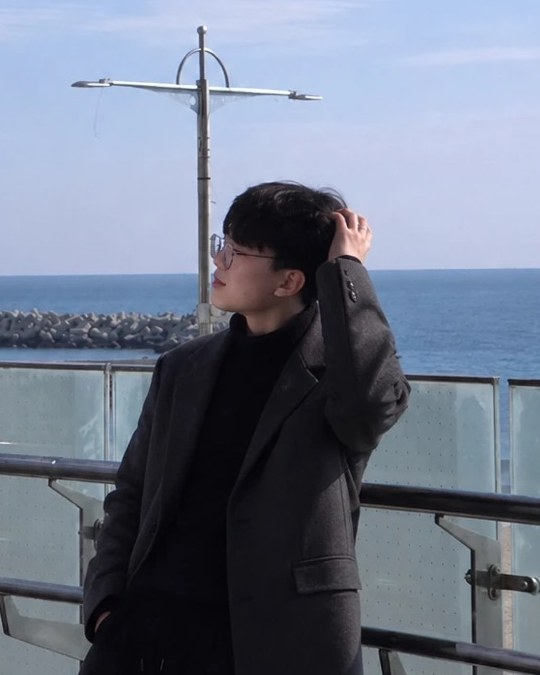
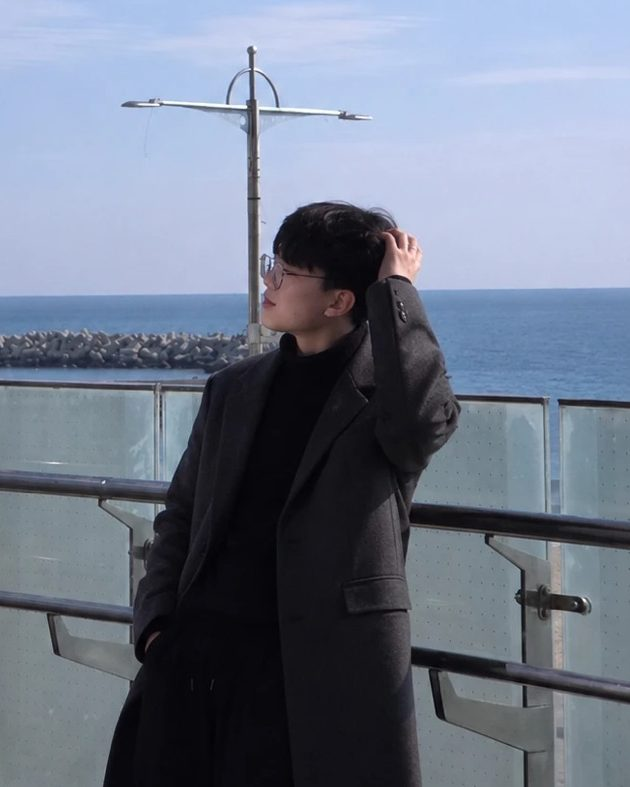
Portfolio: larger portrait on the right of the hero
Portrait re-cropped from the original (630x787) and shown up to 400px
wide beside the intro; tablets keep it on the right at 240px, phones show
it full width above the name.

Claude-Session: https://claude.ai/code/session_01CkiX4KQLTaGBqmBSnma3pg

Changed region(s): [[0.0, 0.0311, 1.0, 1.0], [0.2667, 0.7467, 0.2963, 0.7778], [0.2667, 0.0311, 0.2963, 0.0622]]

diff --git a/index.html b/index.html
@@ -85,7 +85,7 @@ code{font:500 .88em ui-monospace,"SF Mono",Menlo,Consolas,monospace;background:v
 .lang button[aria-pressed="true"]{background:var(--ink);color:var(--bg)}
 
 /* hero */
-.hero{display:grid;grid-template-columns:minmax(0,1fr) 208px;gap:56px;align-items:end;padding-block:clamp(56px,9vw,104px) clamp(48px,7vw,80px)}
+.hero{display:grid;grid-template-columns:minmax(0,1fr) clamp(280px,32vw,400px);gap:clamp(32px,5vw,72px);align-items:center;padding-block:clamp(56px,9vw,104px) clamp(48px,7vw,80px)}
 h1{font-size:clamp(36px,5vw,52px);line-height:1.12;letter-spacing:-.02em;font-weight:700}
 h1 small{display:inline-block;margin-left:12px;font-size:.5em;font-weight:500;color:var(--muted);letter-spacing:0}
 .role{margin-top:10px;font-size:16.5px;color:var(--muted)}
@@ -176,12 +176,14 @@ footer{padding-block:28px 48px;border-top:1px solid var(--rule);font-size:13.5px
 #lb button{position:absolute;top:-16px;right:-8px;width:40px;height:40px;border-radius:50%;border:0;background:#fff;color:#111;font-size:20px;cursor:pointer}
 
 @media (max-width:900px){
-  .hero{grid-template-columns:1fr;gap:28px}
-  .portrait{order:-1;width:128px}
+  .hero{grid-template-columns:minmax(0,1fr) 240px;gap:32px}
   .sec{grid-template-columns:1fr;gap:20px;padding-block:48px}
   .sec__h h2{position:static;font-size:22px}
 }
 @media (max-width:680px){
+  .hero{grid-template-columns:1fr;gap:28px}
+  .portrait{order:-1}
+  .portrait img{aspect-ratio:4/3;object-position:50% 30%}
   .top .wrap{flex-wrap:wrap;gap:0 12px;padding-top:8px}
   .lang{margin-left:auto}
   .top nav{order:3;width:100%;margin:2px 0 4px;justify-content:space-between}
@@ -239,7 +241,7 @@ footer{padding-block:28px 48px;border-top:1px solid var(--rule);font-size:13.5px
         <a class="btn" href="https://github.com/Bugeon151" target="_blank" rel="noopener">GitHub ↗</a>
       </div>
     </div>
-    <figure class="portrait"><img src="img/portrait.jpg" alt="Bugeon Park" width="540" height="675" fetchpriority="high"></figure>
+    <figure class="portrait"><img src="img/portrait.jpg" alt="Bugeon Park" width="630" height="787" fetchpriority="high"></figure>
   </div>
 
   <section class="sec" id="projects">
